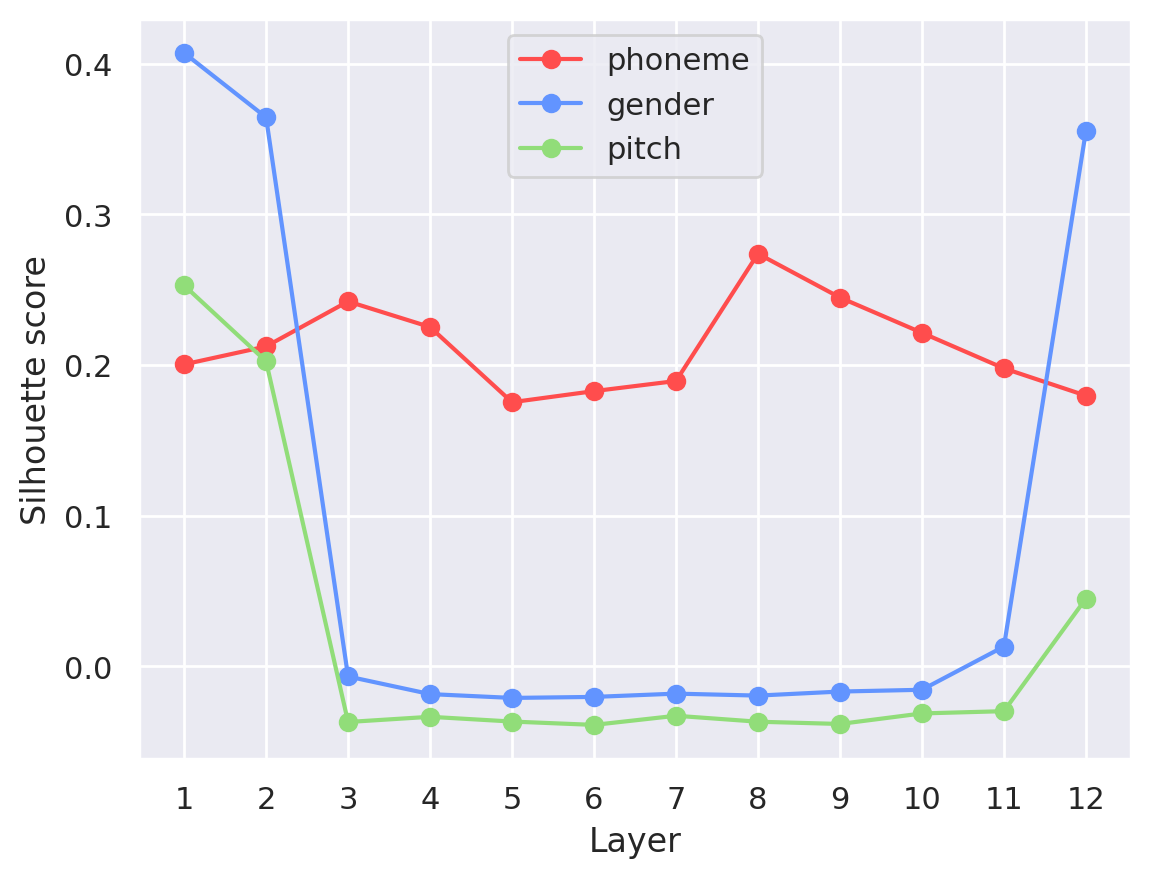
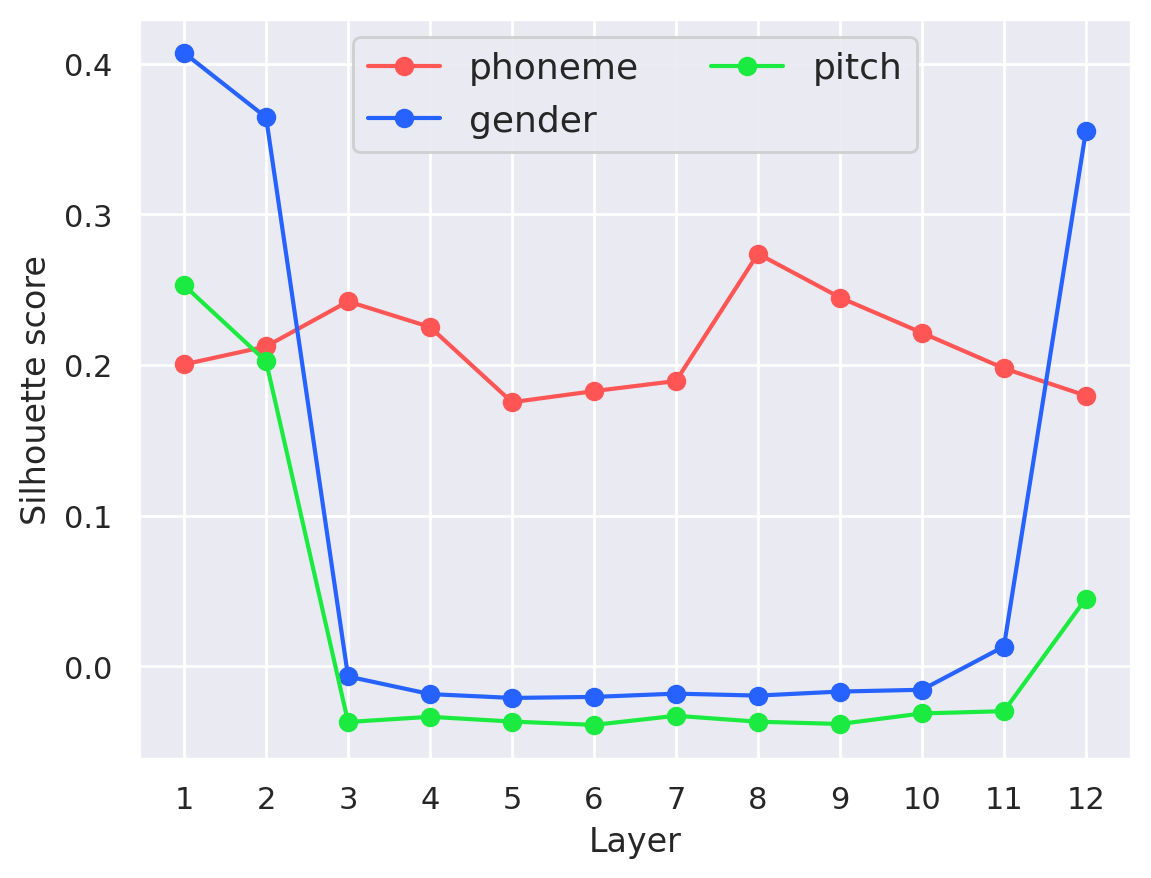
change colors

diff --git a/reproduce_figure/draw.py b/reproduce_figure/draw.py
@@ -5,10 +5,11 @@ import seaborn as sns
 import matplotlib.pyplot as plt 
 from matplotlib_venn import venn3
 
-
 sns.set()
 
 RED = '#FF5555'
+RED2 = '#FF7E7E'
+RED3 = '#FFB5B5'
 BLUE = '#2662FF'
 GREEN = '#1BEB40'
 YELLOW = '#F0F71D'
@@ -24,7 +25,7 @@ def mds_phoneme(phone_name):
         acc += n 
     for idx, name in enumerate(phone_name):
         plt.annotate(name, (v_data_2d[idx,0],v_data_2d[idx,1]), fontsize=15)
-    plt.legend(loc='upper right', fontsize=13, ncol=2, framealpha=0.9, columnspacing=0.0)
+    plt.legend(loc='upper right', fontsize=13, ncol=1, framealpha=0.8, columnspacing=0.0)
     plt.axis('off')
     # plt.title(f'Layer 8')
     plt.savefig('fig/phone.png', bbox_inches='tight', dpi=200)
@@ -40,7 +41,7 @@ def mds_gender(phone_name):
     for idx, name in enumerate(phone_name):
         plt.annotate(name, (v_data_2d[idx,0],v_data_2d[idx,1]), fontsize=15)
         plt.annotate(name, (v_data_2d[n_phone+idx,0],v_data_2d[n_phone+idx,1]), fontsize=15)
-    plt.legend(loc='upper right', fontsize=13, ncol=2, framealpha=0.9)
+    plt.legend(loc='upper right', fontsize=13, ncol=2, framealpha=0.8, columnspacing=0.0)
     plt.axis('off')
     # plt.title(f'Layer 1')
     plt.savefig('fig/gender.png', bbox_inches='tight', dpi=200)
@@ -57,7 +58,7 @@ def mds_pitch(phone_name):
         plt.annotate(name, (v_data_2d[idx,0],v_data_2d[idx,1]), fontsize=15)
         plt.annotate(name, (v_data_2d[n_phone+idx,0],v_data_2d[n_phone+idx,1]), fontsize=15)
         plt.annotate(name, (v_data_2d[n_phone*2+idx,0],v_data_2d[n_phone*2+idx,1]), fontsize=15)
-    plt.legend(loc='upper right', fontsize=13, ncol=2, framealpha=0.9)
+    plt.legend(loc='upper right', fontsize=13, ncol=2, framealpha=0.8, columnspacing=0.0)
     plt.axis('off')
     # plt.title(f'Layer 1')
     plt.savefig('fig/pitch.png', bbox_inches='tight', dpi=200)
@@ -74,7 +75,7 @@ def mds_duration(phone_name):
         plt.annotate(name, (v_data_2d[idx,0],v_data_2d[idx,1]), fontsize=15)
         plt.annotate(name, (v_data_2d[n_phone+idx,0],v_data_2d[n_phone+idx,1]), fontsize=15)
         plt.annotate(name, (v_data_2d[n_phone*2+idx,0],v_data_2d[n_phone*2+idx,1]), fontsize=15)
-    plt.legend(loc='upper right', fontsize=13, ncol=2, framealpha=0.9)
+    plt.legend(loc='upper right', fontsize=13, ncol=2, framealpha=0.8, columnspacing=0.0)
     plt.axis('off')
     # plt.title(f'Layer 6')
     plt.savefig('fig/duration.png', bbox_inches='tight', dpi=200)
@@ -102,6 +103,8 @@ def layer_compare():
         'duration': 'duration' 
     }
     for k, v in results.items():
+        if k == 'duration':
+            continue
         plt.plot(range(1,13), v, label=labels[k], c=color[k], marker='o')
     plt.xticks(ticks=range(1,13))
     plt.xlabel('Layer')
@@ -110,7 +113,7 @@ def layer_compare():
     plt.savefig('fig/layer-compare.png', bbox_inches='tight', dpi=200)
 
 def model_compare():
-    models_list = ['melhubert_base', 'hubert_base', 'wav2vec2_base', 'wavlm_base']
+    models_list = ['hubert_base', 'wav2vec2_base', 'wavlm_base', 'melhubert_base', 'pr', 'sid']
     properties = ['phone-type', 'gender', 'pitch']
     with open('data/model_score.json', 'r') as fp:
         model_score = json.load(fp)
@@ -118,16 +121,20 @@ def model_compare():
         'melhubert_base': RED,
         'hubert_base': BLUE,
         'wav2vec2_base': GREEN,
-        'wavlm_base': YELLOW
+        'wavlm_base': YELLOW,
+        'pr': RED2,
+        'sid': RED3,
     }
     label = {
         'melhubert_base': 'MelHuBERT',
         'hubert_base': 'HuBERT',
         'wav2vec2_base': 'Wav2vec 2.0',
-        'wavlm_base': 'WavLM'
+        'wavlm_base': 'WavLM',
+        'pr': 'MelHuBERT-PR',
+        'sid': 'MelHuBERT-SID',
     }
     x = np.arange(3)  # the label locations
-    width = 0.08  # the width of the bars
+    width = 0.06  # the width of the bars
     multiplier = 0
     fig, ax = plt.subplots(layout='constrained', figsize=(5,4))
     for m in models_list:
